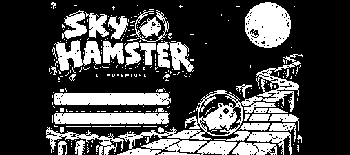
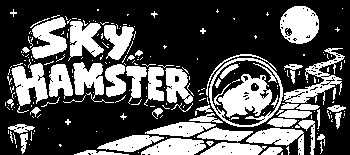
Add dedicated launcher artwork and stable device installation for 0.10.3

diff --git a/experiments/tilt-adventure/art/LAUNCHER-v0.10.3.md b/experiments/tilt-adventure/art/LAUNCHER-v0.10.3.md
@@ -1,0 +1,26 @@
+# 0.10.3 — 真机启动器封面
+
+新增独立封面：左侧 SKY HAMSTER 标题，右侧仓鼠球、浮空石路和月亮。没有空白菜单木牌。列表模式使用单独的圆球仓鼠头像，保证小尺寸仍能辨识。
+
+## 素材与导出
+
+- `launcher-cover-original.png`：封面原图，参考当前 `source/title-scene.png` 的角色与石路风格。
+- `launcher-icon-original.png`：专门的小图标原图。
+- `../source/launcher/card.png`：350×155，全黑白、不透明。
+- `../source/launcher/icon.png`：32×32，全黑白、不透明。
+- `../source/launcher/launchImage.png`：400×240，封面按原生像素居中。
+- `card-highlighted/1.png` 至 `3.png` 与静态封面一致，保证选中后不会回到旧的木牌缩略图；不宣称有新增封面动画。
+
+使用 `prepare-launcher.ps1` 确定性缩放并导出黑白图片。`prepare-title.ps1` 只处理游戏内标题画面，避免重新导出标题时覆盖专用封面。SDK 的 pdxinfo 保留 `imagePath=launcher`，编译后对应资源为 `.pdi`。列表模式显示图标和名称，卡片模式显示大封面，这是系统两种视图的区别。
+
+## 制作提示词
+
+模式：内置图像生成工具。成品原图已保存到本项目，下面记录最终使用的提示词。第一张图标候选对比度不足，未采用；第二张采用实心黑色五官，缩到 32×32 后仍然清楚。
+
+### 封面
+
+Use case: stylized-concept. Asset type: finished Playdate launcher cover card, ultra-wide 350:155 aspect ratio, strictly black-and-white 1-bit pixel art. Reference image: the attached current Sky Hamster title scene supplies the exact cute hamster-in-clear-ball character, chunky irregular stone floating road, moonlit sky, bold playful SKY HAMSTER lettering and overall art direction. Create a NEW dedicated launcher cover, not a screenshot or menu. The only text is 'SKY HAMSTER', large, bold and extremely readable, occupying the left half with comfortable spacing, no subtitle. A happy hamster in a transparent round ball dominates the right foreground, rolling on a thick isometric stone platform, with a simple winding road into the starry sky and one distant moon. Make the ball silhouette, hamster ears, eyes and paws clear at thumbnail size. Keep the scene uncluttered: bold outlines, broad white surfaces, sparse deliberate pixel stipple, no noisy fine detail, no grayscale or color. No empty wooden menu boards, no buttons, no UI, no thin microtext, no watermarks. Full-bleed art, leave enough margin around all text and ears for a 350 by 155 px card. The final result must be a coherent polished cover that matches the reference game. Render in the specified wide aspect ratio.
+
+### 图标
+
+Create a clean, bold monochrome game app icon of a cute hamster face inside a circular glass ball, centered on a solid black square background. Simple flat sticker illustration designed to be legible after shrinking to 32x32 pixels. The hamster head is solid white, with two solid BLACK oval eyes, a BLACK nose and BLACK smiling mouth, and two round ears with BLACK inner ear centers. Surround the face with a thick black gap, then a thick white circular ring suggesting the ball. A small white highlight on the upper right of the ring. Strong simple geometry, broad solid shapes, no fine fur, no texture, no stippling, no thin outlines inside the white face, no gradients, no transparency, no text, no other objects. All facial features MUST be solid black and clearly visible against the white face. Friendly hamster proportions, full face looking forward. Pure white and pure black only. Leave a small black margin around the ball.

diff --git a/experiments/tilt-adventure/VALIDATION-v0.10.3.md b/experiments/tilt-adventure/VALIDATION-v0.10.3.md
@@ -1,0 +1,21 @@
+# 0.10.3 — launcher artwork and one device installation
+
+Date: 2026-09-26. Full-game version 0.10.3 / build 39. Launcher name: Sky Hamster. The bundle ID and `/Games/sky-hamster-tilt.pdx` remain unchanged.
+
+## Assets and checks
+
+Dedicated cover, list icon and loading image exported at SDK-required 350×155, 32×32 and 400×240 sizes. The three selected-card frames match the new cover. Every exported image was checked for opaque black/white pixels and correct dimensions, then visually inspected at native size. Asset source and final prompts: [launcher notes](art/LAUNCHER-v0.10.3.md).
+
+SDK compilation passed. Compiled `main.pdz` is byte-identical to 0.10.2, confirming this asset update does not change gameplay code. The title artwork export no longer overwrites launcher artwork.
+
+## Hardware and cleanup
+
+Installation completed through COM4 / F: and replaced the existing folder. Immediate launch initially missed the serial device during USB reconnection after eject. Retrying after reconnection succeeded; startup physics, mechanisms and occlusion checks passed with no captured error. Log: `tests/device-release-v0.10.3.log`. The installation script now bounds launch retries to handle this reconnect delay.
+
+11 obsolete project packages were moved from the physical device to the local archive `builds/device-archive-2026-09-26/`. The archive count and byte totals match the original inventory. Total removed from the device: 1,361,792 file-content bytes (approximately 1.30 MiB; filesystem allocation can differ). Remaining game directories immediately after cleanup: `Seasons` and `sky-hamster-tilt.pdx`. Saved data and system files were preserved. Direct deletion was blocked; the successful cleanup used recoverable archival to the computer.
+
+Archived packages: playdate-template, core-v0.5.8, v0.6.7, and eight control variants: brake, direct, latch, lock, reverse, speed, throttle and track.
+
+Future updates use `./experiments/tilt-adventure/install.ps1`, which builds and installs the stable `sky-hamster-tilt.pdx` path. Versioned ZIP archives remain on the computer and GitHub. No new version folder is created on the device.
+
+The SDK launcher shows the cover in card view and the icon with text in list view. Installation/startup verification is not a claim that the physical launcher screen was visually observed remotely.

diff --git a/docs/VERSIONS.md b/docs/VERSIONS.md
@@ -1,6 +1,6 @@
 # 完整版版本总表
 
-完整版原先已经更新到 0.6.7。倾斜操控、后续关卡与美术更新都属于同一游戏的继续迭代，因此统一从 0.7.0 顺延。当前版本为 **0.10.2**。
+完整版原先已经更新到 0.6.7。倾斜操控、后续关卡与美术更新都属于同一游戏的继续迭代，因此统一从 0.7.0 顺延。当前版本为 **0.10.3**。
 
 版本由三个整数构成，0.10 表示第十个阶段，排在 0.9 后面。小修复递增末位，新增成组玩法或主要内容递增中间一位；不因操控方案改变重新从 0.1 开始。
 
@@ -22,11 +22,13 @@
 | tilt-v0.4.1 | **v0.10.1** | 保留效果的真机性能优化 | `1b2d4c1` |
 | tilt-v0.4.2 | **v0.10.2** | 跳跃灵敏度与轻微操控调整 | `1b1cc71` |
 
+0.10.3：新增启动器封面、图标与固定目录覆盖安装；真机清理旧包。
+
 ## 历史与安装包
 
 - 原有 v0.1.0 至 v0.6.7 的标签和发布不变。九个控制变体保留其变体编号，不与正式版本号混用。
 - 0.7.0 至 0.10.1 的统一标签指向对应原始源码提交；历史提交信息及当时的源码版本字段不改写，避免伪造开发记录。此表明确记录新旧对应关系。
 - 后续统一编号的下载包从对应源码重新构建，只更新版本元数据；当前 0.10.2 标签指向完成编号整理的提交。
 - 原始测量日志、图片、测试基线与旧本地归档的文件名保留，供核对真实记录；当前说明标题、文档链接、发布标签、下载包和最新游戏版本使用统一编号。
-- 当前构建号为 38；它是安装构建标识，与对外版本号分开。游戏目录和 bundle ID 保持不变，以保留现有存档。
+- 当前构建号为 39；它是安装构建标识，与对外版本号分开。游戏目录和 bundle ID 保持不变，以保留现有存档。
 - 这次只整理编号及发布记录，没有新增关卡或改变操作手感，不另外算一次玩法更新。

diff --git a/experiments/tilt-adventure/REFLECTION.md b/experiments/tilt-adventure/REFLECTION.md
@@ -1,3 +1,16 @@
+# 0.10.3：从真机菜单开始就像一个完整游戏
+
+我希望真机游戏列表也有清楚的封面，而不是只看到名称；同时不想让大量旧版和变体一直占着设备列表。今后真机只保留当前版本，历史版本放在电脑和 GitHub。
+
+本轮检查与调整：
+
+- 原先启动器资源来自标题界面的缩略图，还带着空白菜单木牌。我把封面单独设计成大标题、仓鼠球、浮空石路与月亮；列表模式另做简洁头像，而不是把整张封面缩成一个看不清的小点。
+- 第一张图标候选五官对比度不够，缩小后无法辨认，因此换成实心黑色五官和清楚的球形外轮廓。最终按真机需要的尺寸导出，并检查黑白像素与可读性。
+- 检查发现，标题导出脚本还会覆盖启动器资源，因此把这两套导出分开。选中封面也使用新图，避免选中后又变回旧样式。
+- 真机实际有 8 个变体和 3 个旧版／课堂包。这 11 个包已移到电脑归档，设备只保留当前项目和自带 Seasons；存档保留。归档数量和文件大小与清理前相符。
+- 固定使用同一个安装目录，后面新版本直接覆盖。安装后马上启动时遇到 USB 尚未重新连上的短暂空档，因此增加有次数限制的启动重试；重连后启动检查通过。
+- 这次属于封面和安装整理的小更新，记为 0.10.3。游戏字节码与 0.10.2 一致，抬机灵敏度和控球手感保持刚才的调整。
+
 # 版本编号整理
 
 我希望这始终是同一款游戏的持续迭代。之前完整版已经到 0.6.7，改成倾斜操控不应再从 0.1 开始。因此把后续记录统一接成 0.7.0 至 0.10.2，保留每次修改的原因和历史源码。今后小修复继续增加末位编号，新增成组玩法再增加阶段编号。完整对应关系见 [版本总表](../../docs/VERSIONS.md)。

diff --git a/README.md b/README.md
@@ -1,8 +1,8 @@
-# Sky Hamster — v0.10.2
+# Sky Hamster — v0.10.3
 
 Playdate 单人控球原型，Lua 编写。游戏设计：Wang Yibo。
 
-当前完整版延续原有版本序列：**0.6.7 → 0.7.x → 0.8.0 → 0.9.0 → 0.10.2**。倾斜操控是同一款游戏的后续迭代，不再单独从 0.1 编号。完整对应表见 [版本总表](docs/VERSIONS.md)。
+当前完整版延续原有版本序列：**0.6.7 → 0.7.x → 0.8.0 → 0.9.0 → 0.10.3**。倾斜操控是同一款游戏的后续迭代，不再单独从 0.1 编号。完整对应表见 [版本总表](docs/VERSIONS.md)。
 
 当前包含 44 关：倾斜控球、抬机跳跃、摇柄操控机关、炮台及综合长关，包含标题、设置、教学、选关、检查点和结算循环。最新源码位于 [experiments/tilt-adventure](experiments/tilt-adventure/README.md)，保留原目录和存档标识以兼容已有构建与真机存档。
 
@@ -12,7 +12,7 @@ Playdate 单人控球原型，Lua 编写。游戏设计：Wang Yibo。
 ./experiments/tilt-adventure/build.ps1
 ```
 
-输出为 `builds/sky-hamster-tilt.pdx`。当前设计记录见 [完整版设计心路历程](experiments/tilt-adventure/REFLECTION.md)。后续修复从 0.10.3 继续，新增一批玩法时升至 0.11.0。
+输出为 `builds/sky-hamster-tilt.pdx`。真机更新执行 `./experiments/tilt-adventure/install.ps1`，始终覆盖同一个安装目录；历史 ZIP 只放在电脑和 GitHub。当前设计记录见 [完整版设计心路历程](experiments/tilt-adventure/REFLECTION.md)。后续修复从 0.10.4 继续，新增一批玩法时升至 0.11.0。
 
 ## 0.6.7 及课堂版归档
 

diff --git a/experiments/tilt-adventure/device-status.md b/experiments/tilt-adventure/device-status.md
@@ -1,4 +1,4 @@
-Numbering correction — 2026-09-26: unified version 0.10.2 / build 38 built successfully. Its files are byte-identical to the installed 0.4.2 release except pdxinfo. Reinstallation currently returned "No Playdate device detected"; the device still displays the former 0.4.2 number until reconnection. See ../../docs/VERSIONS.md.
+Latest — 2026-09-26, version 0.10.3 / build 39: dedicated launcher cover/icon installed to /Games/sky-hamster-tilt.pdx. Launch succeeded after USB reconnected; startup checks passed. Eight control variants and three old/classroom packages archived off the device; remaining game directories are Seasons and sky-hamster-tilt.pdx. Saves retained. Future updates overwrite this same folder. See VALIDATION-v0.10.3.md and tests/device-release-v0.10.3.log.
 
 Last confirmed game installation — 2026-09-26, unified 0.10.2 (original label 0.4.2 / build 15): regression suite and SDK build passed. After USB reconnection, installed successfully through COM4 / F: and launched at /Games/sky-hamster-tilt.pdx. Startup physics/mechanism/occlusion checks passed with no captured error. Replaced the same Tilt installation folder. Physical gesture feel still needs hands-on evaluation. See VALIDATION-v0.10.2.md and tests/device-release-v042.log.
 

diff --git a/docs/reflections/README.md b/docs/reflections/README.md
@@ -4,7 +4,7 @@
 
 这里记录我在各次迭代中的思考：我发现了什么问题、考虑过哪些方案、为什么作出取舍，以及最后决定怎样修改。
 
-0.7.0 至当前 0.10.2 的完整后续记录见 [完整版设计心路历程](../../experiments/tilt-adventure/REFLECTION.md)，编号对应见 [版本总表](../VERSIONS.md)。改变操控方式继续沿用同一版本序列。
+0.7.0 至当前 0.10.3 的完整后续记录见 [完整版设计心路历程](../../experiments/tilt-adventure/REFLECTION.md)，编号对应见 [版本总表](../VERSIONS.md)。改变操控方式继续沿用同一版本序列。
 
 - [0.1：先把控球不掉下去做出来](v0.1.0.md)
 - [0.2：设定速度不适合坡道](v0.2.0.md)

diff --git a/CHANGELOG.md b/CHANGELOG.md
@@ -1,6 +1,10 @@
 # 版本变化
 
-统一沿完整版顺序递增，当前 0.10.2；新旧编号见 [版本总表](docs/VERSIONS.md)。
+统一沿完整版顺序递增，当前 0.10.3；新旧编号见 [版本总表](docs/VERSIONS.md)。
+
+## v0.10.3
+
+新增真机启动器专用封面、仓鼠球小图标与加载画面，选中时也保持新封面。标题素材导出与启动器素材分开，避免相互覆盖。增加固定目录覆盖安装脚本；真机移走 8 个变体及 3 个旧版／测试包，归档到电脑，仅保留当前项目安装。玩法字节码与 0.10.2 一致。安装和启动检查通过，详见 [验证记录](experiments/tilt-adventure/VALIDATION-v0.10.3.md)。
 
 ## v0.10.2
 

diff --git a/experiments/tilt-adventure/README.md b/experiments/tilt-adventure/README.md
@@ -1,4 +1,6 @@
-# Sky Hamster Tilt — 0.10.2
+# Sky Hamster — 0.10.3
+
+0.10.3 adds a dedicated launcher cover, list icon and loading image. Use `./install.ps1` to build and overwrite the one existing device installation. See [validation and cleanup](VALIDATION-v0.10.3.md) and [artwork](art/LAUNCHER-v0.10.3.md).
 
 This is the continuing full game after 0.6.7, using the single repository version sequence. See the [version table](../../docs/VERSIONS.md). The directory, install folder and bundle ID remain stable for existing saves. Historical raw logs and source commits retain their original identifiers; public release tags and current documentation use the unified numbers.
 
